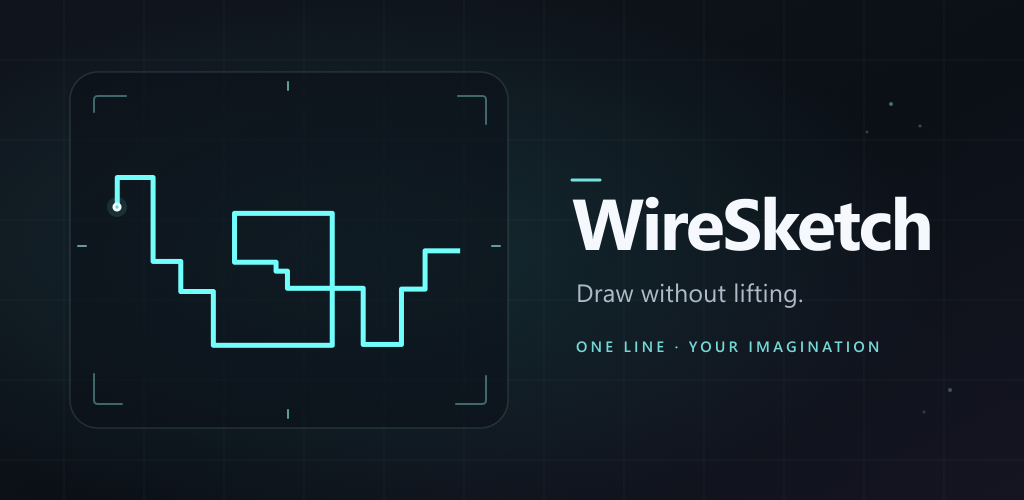
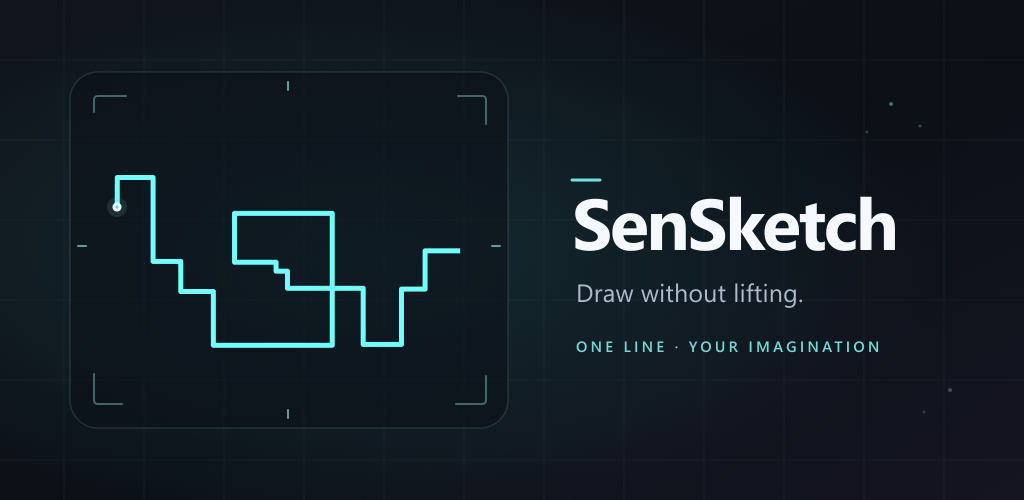
リリース準備

Changed region(s): [[0.5625, 0.39, 0.9062, 0.51]]

diff --git a/doc/privacy.html b/doc/privacy.html
@@ -1,0 +1,116 @@
+<!doctype html>
+<html lang="ja">
+<head>
+    <meta charset="utf-8">
+    <meta name="viewport" content="width=device-width, initial-scale=1">
+    <meta name="theme-color" content="#10151d">
+    <title>プライバシーポリシー - SenSketch</title>
+    <style>
+        :root { color-scheme: light; }
+        body {
+            font-family: system-ui, -apple-system, "Segoe UI", sans-serif;
+            line-height: 1.75;
+            margin: 0 auto;
+            padding: 24px;
+            color: #253041;
+            background: #f6f8fb;
+            max-width: 820px;
+        }
+        main { background: #fff; border: 1px solid #e4e9f0; border-radius: 16px; padding: clamp(22px, 5vw, 48px); }
+        h1, h2 { color: #172333; line-height: 1.35; }
+        h1 { border-bottom: 2px solid #e8edf3; padding-bottom: 14px; }
+        h2 { margin-top: 2em; font-size: 1.2rem; }
+        p, li { overflow-wrap: anywhere; }
+        li { margin: .45em 0; }
+        .date { color: #637083; font-size: .92rem; }
+        .notice { background: #f0f8fa; border-left: 4px solid #63cbd0; padding: 14px 18px; border-radius: 4px; }
+        .english { border-top: 1px solid #e4e9f0; margin-top: 56px; padding-top: 34px; }
+        a { color: #176b87; }
+    </style>
+</head>
+<body>
+<main>
+    <section lang="ja">
+        <h1>SenSketch プライバシーポリシー</h1>
+        <p class="date">最終更新日: 2026年11月23日</p>
+        <p>このプライバシーポリシーは、SenSketch（以下「本アプリ」）が扱う情報と、その取り扱いについて説明します。</p>
+
+        <h2>1. 本アプリが扱う情報</h2>
+        <ul>
+            <li><strong>描画内容と設定</strong><br>描いた線、カーソル位置、色や線幅などの設定を、次回起動時に復元するため端末内のアプリ専用領域に保存します。</li>
+            <li><strong>ユーザーが保存するPNG画像</strong><br>保存操作を行うとAndroidの保存先選択画面が開きます。画像はユーザーが選んだ保存先に書き出されます。本アプリは端末全体のファイルを閲覧する権限を要求しません。</li>
+        </ul>
+        <p>本アプリはアカウント登録を求めず、広告やアクセス解析を行いません。アプリの機能としてユーザー情報や描画内容を開発者または第三者のサーバーへ送信しません。また、現在のAndroidManifestにはインターネット通信権限を宣言していません。</p>
+
+        <div class="notice">
+            <strong>Androidのバックアップについて:</strong>
+            本アプリではAndroidのバックアップが有効です。端末やユーザーの設定に応じて、アプリ専用領域に保存した描画状態や設定がAndroidの自動バックアップまたは端末間転送の対象となり、バックアップ先に保存・復元される場合があります。バックアップの管理はAndroidの設定に従います。本アプリがバックアップデータを閲覧したり、独自に送信したりすることはありません。
+        </div>
+
+        <h2>2. 第三者への提供</h2>
+        <p>本アプリは、広告・解析サービスを利用せず、ユーザーの描画内容や個人情報を独自に第三者へ送信・提供しません。前項のAndroid OSが管理するバックアップや端末間転送は、ユーザーの端末設定とAndroidのサービスに従います。</p>
+
+        <h2>3. 保存データの削除</h2>
+        <ul>
+            <li>描画状態や設定は、アプリ内の「クリア」操作で描画を消去できます。アプリのデータ全体は、Androidの設定から本アプリのストレージを消去することで削除できます。</li>
+            <li>PNG画像はユーザーが選んだ保存先に保存されるため、必要に応じてファイル管理アプリ等から削除してください。本アプリのアンインストールでは、選択先に保存したPNG画像は削除されません。</li>
+            <li>Androidのバックアップに含まれたデータの削除や保存期間は、Androidおよびバックアップサービスの設定・仕様に従います。</li>
+        </ul>
+
+        <h2>4. 子どものプライバシー</h2>
+        <p>本アプリは、特定の年齢層から個人情報を収集する機能を備えていません。ストア上の対象年齢はGoogle Play Consoleでの設定をご確認ください。</p>
+
+        <h2>5. ポリシーの変更</h2>
+        <p>本アプリの機能や法令に変更があった場合、このページを更新します。変更後の内容は本ページに掲載します。</p>
+
+        <h2>6. お問い合わせ</h2>
+        <p>本ポリシーに関するお問い合わせは、以下までご連絡ください。</p>
+        <ul>
+            <li>開発者: じゅん</li>
+            <li>メール: <a href="mailto:jun.tekitou999@gmail.com">jun.tekitou999@gmail.com</a></li>
+        </ul>
+    </section>
+
+    <section class="english" lang="en">
+        <h1>SenSketch Privacy Policy</h1>
+        <p class="date">Last updated: November 23, 2026</p>
+        <p>This Privacy Policy explains how SenSketch (the “App”) handles information.</p>
+
+        <h2>1. Information handled by the App</h2>
+        <ul>
+            <li><strong>Drawing and settings</strong><br>The App stores your drawing, cursor position, and settings in its private storage on your device so they can be restored the next time you open the App.</li>
+            <li><strong>PNG images you save</strong><br>When you save an image, Android opens a system file picker. The image is written to the destination you choose. The App does not request broad access to files on your device.</li>
+        </ul>
+        <p>The App does not require an account and contains no advertising or analytics. It does not send user information or drawings to a developer or third-party server as part of its functionality. The current Android manifest does not declare the Internet permission.</p>
+
+        <div class="notice">
+            <strong>Android backup:</strong>
+            Android backup is enabled for the App. Depending on your device and settings, drawing state and settings in the App's private storage may be included in Android Auto Backup or device-to-device transfer and may be stored or restored by the backup service. These operations are managed by Android according to your settings. The App does not access or independently transmit backup data.
+        </div>
+
+        <h2>2. Disclosure to third parties</h2>
+        <p>The App does not use advertising or analytics services and does not independently transmit or disclose your drawings or personal information to third parties. Android-managed backup and device-to-device transfer follow your device settings and the terms of the relevant Android service.</p>
+
+        <h2>3. Deleting saved information</h2>
+        <ul>
+            <li>You can clear the drawing with the App's Clear control. To delete all App data, clear the App's storage from Android settings.</li>
+            <li>PNG images remain at the destination you selected. Delete them using a file manager or another suitable app. Uninstalling SenSketch does not delete those exported images.</li>
+            <li>Deletion and retention of information included in Android backups are governed by Android and the backup service's settings and policies.</li>
+        </ul>
+
+        <h2>4. Children's privacy</h2>
+        <p>The App has no feature that collects personal information from users of any age. Please refer to the target-age settings on its Google Play listing.</p>
+
+        <h2>5. Changes to this policy</h2>
+        <p>This page will be updated if the App's features or applicable requirements change. The revised policy will be posted here.</p>
+
+        <h2>6. Contact</h2>
+        <p>If you have questions about this policy, contact:</p>
+        <ul>
+            <li>Developer: Jun</li>
+            <li>Email: <a href="mailto:jun.tekitou999@gmail.com">jun.tekitou999@gmail.com</a></li>
+        </ul>
+    </section>
+</main>
+</body>
+</html>
